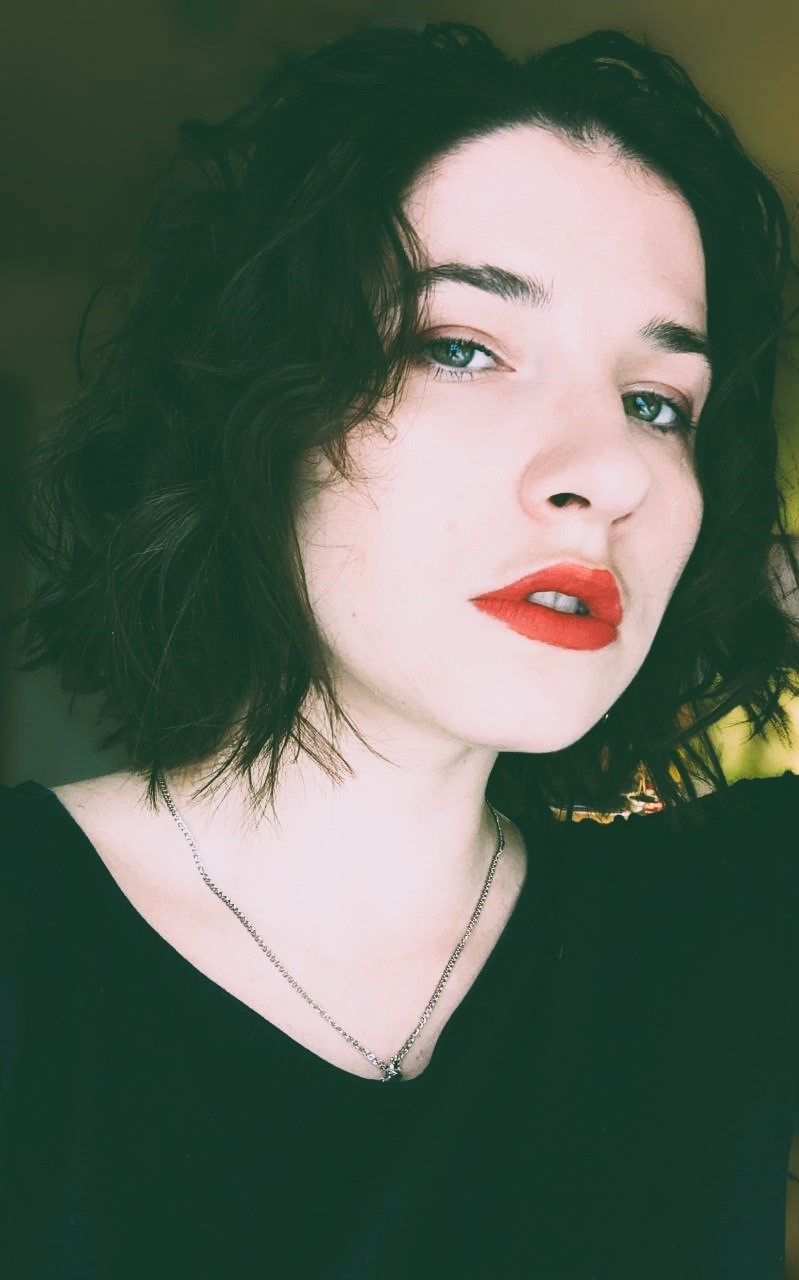
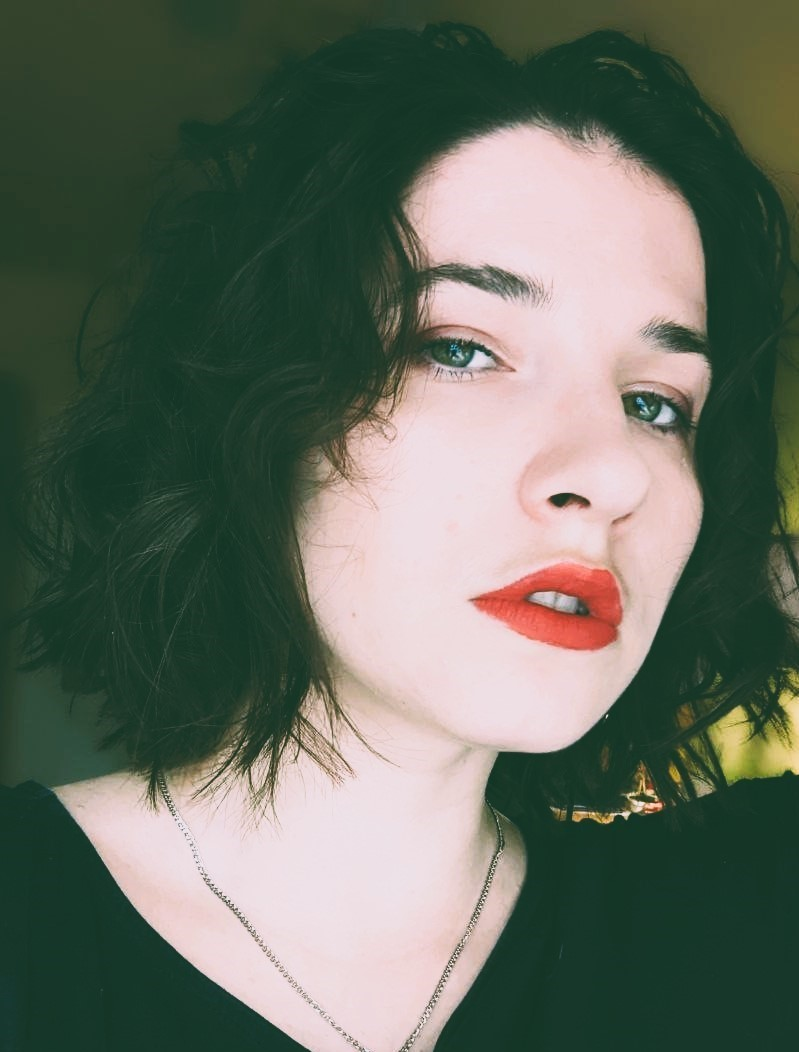
Portfolio images added

diff --git a/index.html b/index.html
@@ -36,9 +36,31 @@ body, h1,h2,h3,h4,h5,h6 {font-family: "Montserrat", sans-serif}
       <h1 class="w3-jumbo"><b>Aricalika</b></h1>
       <p>Artist and Streamer</p>
       <img src="images/profile.jpg" class="w3-image w3-hide-large w3-hide-small w3-round" style="display:block;width:60%;margin:auto;">
-      <img src="images/profile.jpg" class="w3-image w3-hide-large w3-hide-medium w3-round" width="799" height="1280">
+      <img src="images/profile.jpg" class="w3-image w3-hide-large w3-hide-medium w3-round" width="799" height="1052">
     </header>
   
+    <!-- Portfolio Section -->
+    <div class="w3-padding-32 w3-content" id="portfolio">
+      <h2 class="w3-text-grey">My Portfolio</h2>
+      <hr class="w3-opacity">
+
+      <!-- Grid for photos -->
+      <div class="w3-row-padding" style="margin:0 -16px">
+        <div class="w3-half">
+          <img src="images/anime.jpg" style="width:100%">
+          <img src="images/frog.jpg" style="width:100%">
+          <img src="images/leshak.jpg" style="width:100%">
+        </div>
+
+        <div class="w3-half">
+          <img src="images/lips.jpg" style="width:100%">
+          <img src="images/nahida.jpg" style="width:100%">
+          <img src="images/cover.jpg" style="width:100%">
+        </div>
+      <!-- End photo grid -->
+      </div>
+    <!-- End Portfolio Section -->
+    </div>
   
     <!-- About Section -->
     <div class="w3-content w3-justify w3-text-grey w3-padding-32" id="about">
@@ -58,6 +80,9 @@ body, h1,h2,h3,h4,h5,h6 {font-family: "Montserrat", sans-serif}
       </button>
       <button class="w3-button w3-light-grey w3-padding-large w3-section" style="width:100%">
         <i class="fa-brands fa-telegram fa-lg" style="color:rgb(0, 110, 255)"></i> <a href="https://t.me/krush_art" target="_blank"> Telegram</a>
+      </button>
+      <button class="w3-button w3-light-grey w3-padding-large w3-section" style="width:100%">
+        <i class="fab fa-google-drive" style="color:rgb(39, 39, 133)"></i> <a href="https://drive.google.com/drive/folders/1DeXBMph479RcP5IHz8Ppkqxm12z10C08" target="_blank"> Portfolio</a>
       </button>
       <button class="w3-button w3-light-grey w3-padding-large w3-section" style="width:100%">
         <i class="fab fa-steam fa-lg" style="color:black"></i> <a href="https://steamcommunity.com/id/aricalika/" target="_blank"> Steam</a>
